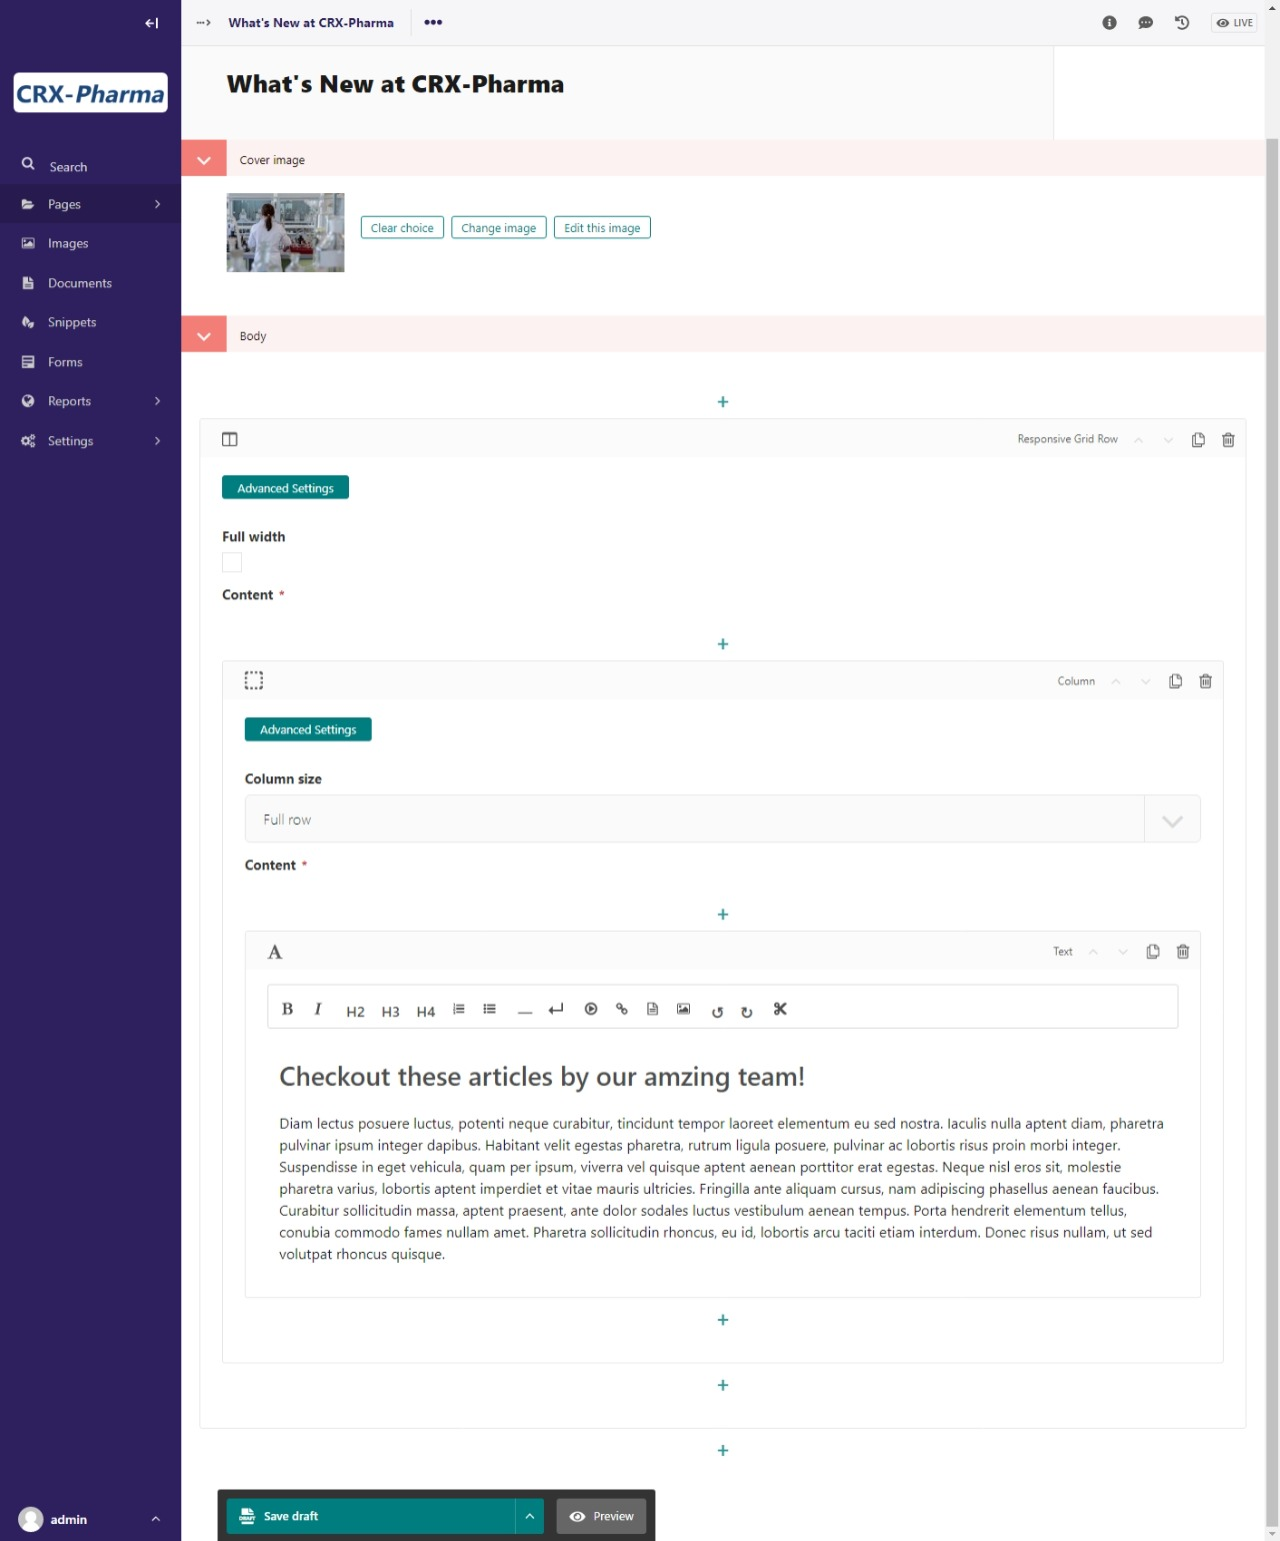
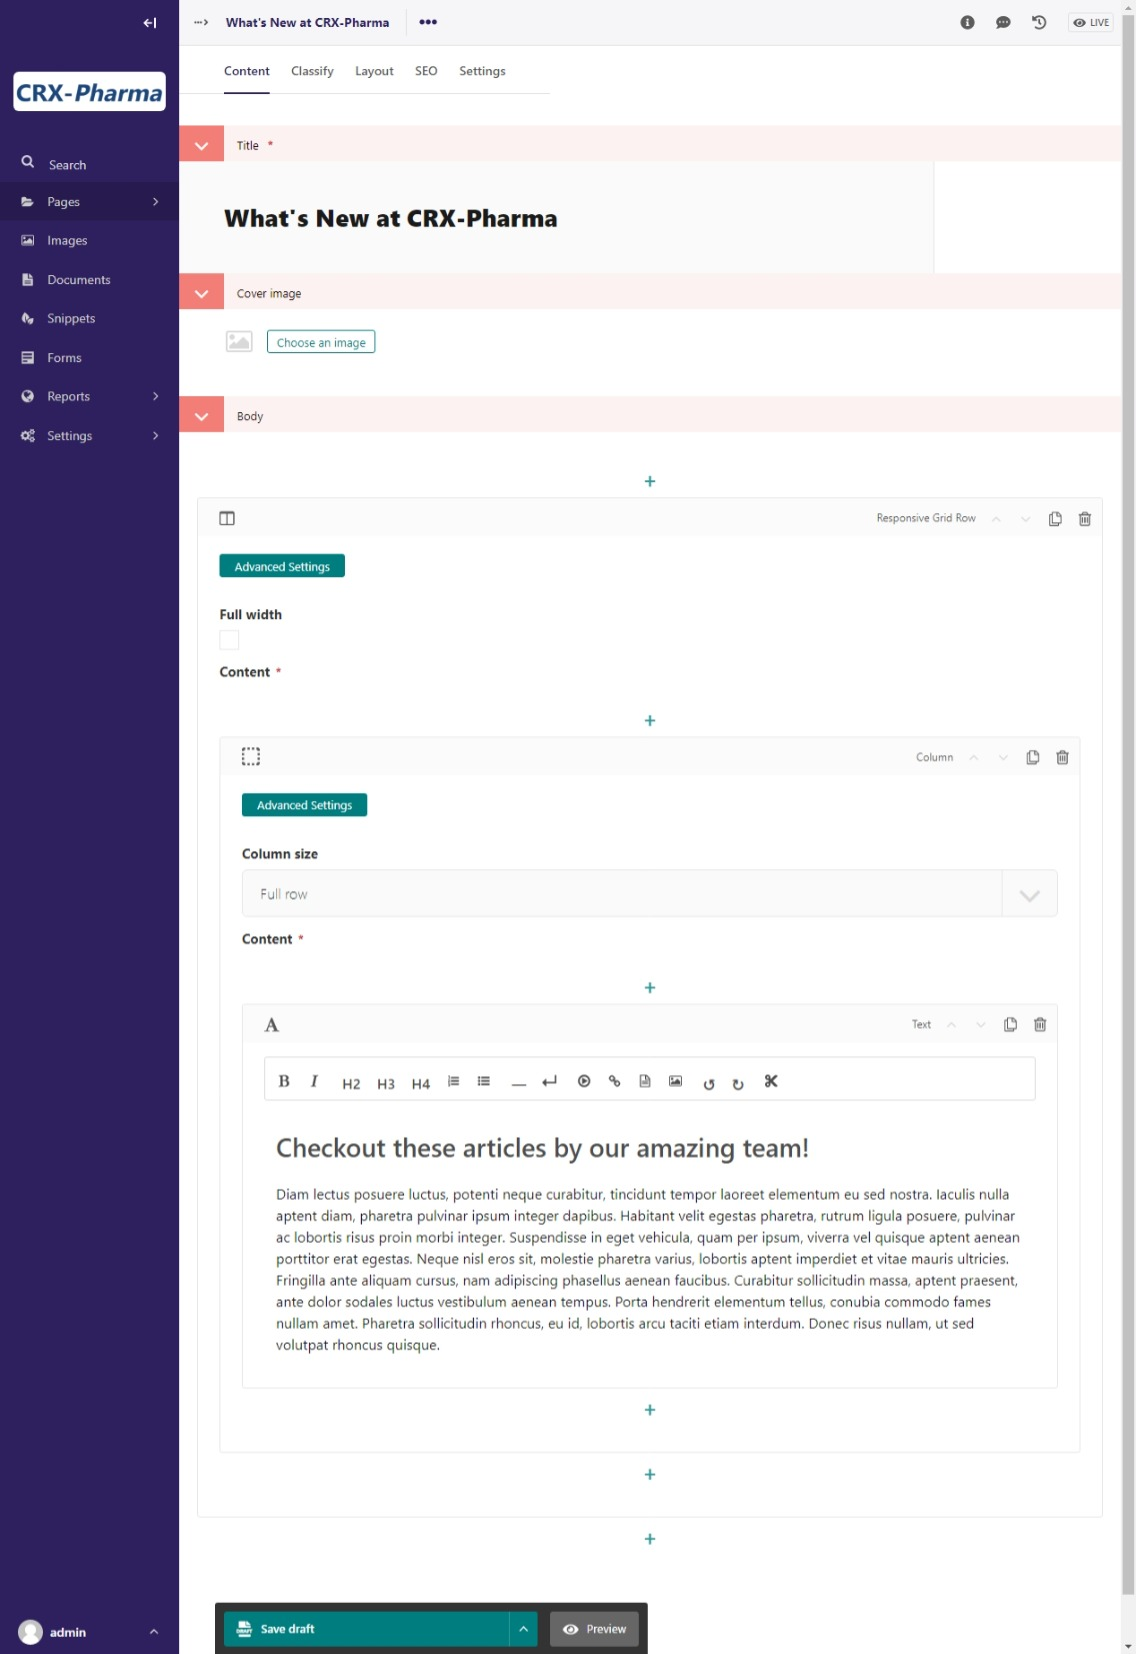
update blog tutorial

diff --git a/docs/getting_started/tutorial05.rst b/docs/getting_started/tutorial05.rst
@@ -56,17 +56,17 @@ case. We will want to fill in the following:
 
 * **Body** - Content for our article or blog
 
-Let's write a short blog about a fictitious vaccine that CRX-Pharma created. Once we fill in the information we want to add above, we
-can select what we want to add to the body of the blog post. We will choose a **Text** block.
-We added `this image <https://pixabay.com/illustrations/pill-capsule-medicine-medical-1884775/>`_ in our text block with the Image tool in the text editor.
-This is what our editor looks like:
+Let's write a short blog about a fictitious vaccine that CRX-Pharma created. We added `this as our cover image <https://pixabay.com/illustrations/pill-capsule-medicine-medical-1884775/>`_ ,
+then filled out the the rest of the fields for our page.
+
+What our editor looks like:
 
 .. figure:: images/tut05/blog_editor.jpeg
     :alt: The edit screen for our first blog post.
 
     The edit screen for our first blog post.
 
-Now publish it and see what it looks like! This is what our blog post looks like:
+Now publish it and see what it looks like!
 
 .. figure:: images/tut05/blog_preview.jpeg
     :alt: Our first published blog post.
@@ -128,7 +128,7 @@ We want the **Layout** tab. Click on that tab and you'll see this:
 
     The Layout tab for the Blog landing page.
 
-We are using the default template, so skip over that for now. The sections titled
+We are using the default template, different templates have different layouts for child pages. The sections titled
 **"Show Child Pages"** and **"Child Page Display"** contain the settings for whether or not
 the sub-pages (blogs in this case) are automatically pulled onto the page, how many
 of them to show, and what fields or pieces of them to show as a preview.
